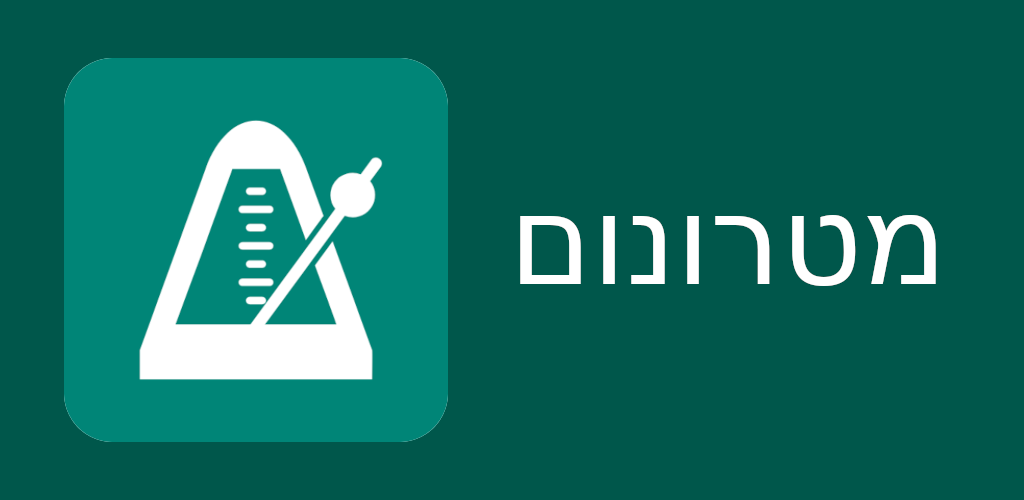
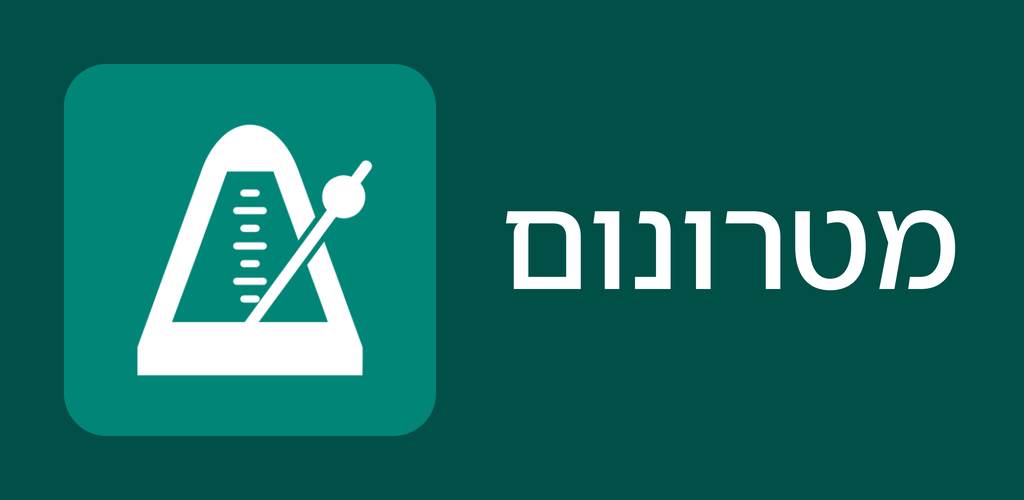
Add script to generate branded featureGraphic.png per locale

diff --git a/fastlane/generate_feature_graphics.py b/fastlane/generate_feature_graphics.py
@@ -1,0 +1,261 @@
+#!/usr/bin/env python3
+
+#  This file is part of Metronome.
+#  Copyright (C) 2026 Philipp Bobek <philipp.bobek@mailbox.org>
+#
+#  This program is free software: you can redistribute it and/or modify
+#  it under the terms of the GNU General Public License as published by
+#  the Free Software Foundation, either version 3 of the License, or
+#  (at your option) any later version.
+#
+#  Metronome is distributed in the hope that it will be useful,
+#  but WITHOUT ANY WARRANTY; without even the implied warranty of
+#  MERCHANTABILITY or FITNESS FOR A PARTICULAR PURPOSE.  See the
+#  GNU General Public License for more details.
+#
+#  You should have received a copy of the GNU General Public License
+#  along with this program.  If not, see <http://www.gnu.org/licenses/>.
+
+"""
+Generates fastlane/metadata/android/<locale>/images/featureGraphic.png for every
+locale that has a translated app name, using the app icon and theme colors from
+app/src/main/res/values/colors.xml so the graphic always matches the app's branding.
+
+Layout is a 16-column grid (64px module) on a 1024x500 canvas:
+  64px margin | 384px icon | 64px gap | 448px text box | 64px margin
+
+Requires python3-pillow built with libraqm (for Arabic shaping/bidi). The Noto Sans
+fonts needed to cover this app's locales are fetched on first use from the google/fonts
+GitHub repo (pinned to GOOGLE_FONTS_COMMIT below) into fastlane/.fonts-cache/ (git-ignored),
+so no manual font installation is needed. Each cached font's SHA-256 is recorded alongside
+it at download time and re-checked on every run, to catch local cache corruption; the
+initial download itself is authenticated by HTTPS + the pinned commit hash.
+"""
+
+import hashlib
+import re
+import sys
+import urllib.request
+from PIL import Image, ImageDraw, ImageFont
+from functools import lru_cache
+from pathlib import Path
+
+REPO_ROOT = Path(__file__).resolve().parent.parent
+RES_DIR = REPO_ROOT / "app" / "src" / "main" / "res"
+COLORS_XML = RES_DIR / "values" / "colors.xml"
+APP_ICON = REPO_ROOT / "fastlane" / "metadata" / "android" / "en-US" / "images" / "icon.png"
+METADATA_DIR = REPO_ROOT / "fastlane" / "metadata" / "android"
+
+CANVAS_WIDTH = 1024
+CANVAS_HEIGHT = 500
+SUPERSAMPLE = 4
+
+MODULE = 64
+ICON_LEFT = MODULE
+ICON_SIZE = CANVAS_HEIGHT - 2 * MODULE  # 384, vertically centered
+ICON_CORNER_RATIO = 0.115
+
+TEXT_LEFT = ICON_LEFT + ICON_SIZE + MODULE  # 512
+TEXT_BOX_WIDTH = CANVAS_WIDTH - TEXT_LEFT - MODULE  # 448
+TEXT_BOX_HEIGHT = 320
+MIN_FONT_SIZE = 10
+MAX_FONT_SIZE = 300
+
+GOOGLE_FONTS_COMMIT = "2796410152d4f9524b68ed46e69c1b60f8e0f7c3"
+GOOGLE_FONTS_RAW_BASE = f"https://raw.githubusercontent.com/google/fonts/{GOOGLE_FONTS_COMMIT}/"
+FONTS_CACHE_DIR = REPO_ROOT / "fastlane" / ".fonts-cache"
+
+# Script key -> path of a standalone (non-collection) variable font file in the
+# google/fonts repo, covering the scripts this app's translated names use.
+FONTS = {
+    "latin": "ofl/notosans/NotoSans[wdth,wght].ttf",
+    "arabic": "ofl/notosansarabic/NotoSansArabic[wdth,wght].ttf",
+    "devanagari": "ofl/notosansdevanagari/NotoSansDevanagari[wdth,wght].ttf",
+    "hebrew": "ofl/notosanshebrew/NotoSansHebrew[wdth,wght].ttf",
+    "tamil": "ofl/notosanstamil/NotoSansTamil[wdth,wght].ttf",
+    "cjk-jp": "ofl/notosansjp/NotoSansJP[wght].ttf",
+    "cjk-kr": "ofl/notosanskr/NotoSansKR[wght].ttf",
+    "cjk-sc": "ofl/notosanssc/NotoSansSC[wght].ttf",
+    "cjk-tc": "ofl/notosanstc/NotoSansTC[wght].ttf",
+}
+
+# Fastlane locale directory -> FONTS key used to render its app name.
+LOCALE_TO_FONT_KEY = {
+    "ar": "arabic",
+    "hi-IN": "devanagari",
+    "iw-IL": "hebrew",
+    "ta-IN": "tamil",
+    "ja-JP": "cjk-jp",
+    "ko-KR": "cjk-kr",
+    "zh-CN": "cjk-sc",
+    "zh-HK": "cjk-tc",
+    "zh-TW": "cjk-tc",
+}
+DEFAULT_FONT_KEY = "latin"
+
+
+def read_color(name: str) -> tuple[int, int, int]:
+    xml = COLORS_XML.read_text(encoding="utf-8")
+    match = re.search(rf'<color name="{re.escape(name)}">#([0-9A-Fa-f]{{6}})</color>', xml)
+    if not match:
+        sys.exit(f"Color '{name}' not found in {COLORS_XML}")
+    hex_value = match.group(1)
+    return tuple(int(hex_value[i: i + 2], 16) for i in (0, 2, 4))
+
+
+def read_app_name(locale: str) -> str:
+    title_txt = METADATA_DIR / locale / "title.txt"
+    if not title_txt.exists():
+        sys.exit(f"{title_txt} does not exist")
+    return title_txt.read_text(encoding="utf-8").strip()
+
+
+@lru_cache(maxsize=None)
+def resolve_font_file(key: str) -> Path:
+    repo_path = FONTS[key]
+    filename = repo_path.rsplit("/", 1)[-1]
+    cached = FONTS_CACHE_DIR / filename
+    checksum_file = cached.with_suffix(cached.suffix + ".sha256")
+
+    if (
+            cached.exists()
+            and checksum_file.exists()
+            and checksum_file.read_text().strip() == hashlib.sha256(cached.read_bytes()).hexdigest()
+    ):
+        return cached
+
+    url = GOOGLE_FONTS_RAW_BASE + repo_path
+    print(f"Downloading font: {url}")
+    try:
+        with urllib.request.urlopen(url, timeout=30) as response:
+            data = response.read()
+    except OSError as error:
+        sys.exit(
+            f"Failed to download font from {url}: {error}\n"
+            f"Check network connectivity, or manually place the file at {cached}."
+        )
+
+    FONTS_CACHE_DIR.mkdir(parents=True, exist_ok=True)
+    tmp_file = cached.with_suffix(cached.suffix + ".part")
+    tmp_file.write_bytes(data)
+    tmp_file.replace(cached)
+    checksum_file.write_text(hashlib.sha256(data).hexdigest() + "\n")
+    return cached
+
+
+def load_font(locale: str, size: int) -> ImageFont.FreeTypeFont:
+    key = LOCALE_TO_FONT_KEY.get(locale, DEFAULT_FONT_KEY)
+    font_file = resolve_font_file(key)
+    font = ImageFont.truetype(str(font_file), size, layout_engine=ImageFont.Layout.RAQM)
+    try:
+        if b"Medium" in font.get_variation_names():
+            font.set_variation_by_name("Medium")
+    except OSError:
+        pass  # static (non-variable) font, e.g. the CJK collections
+    return font
+
+
+def _unmix(pixel: tuple[int, int, int], bg: tuple[int, int, int]) -> tuple[float, tuple[int, int, int]]:
+    """Chroma-key one pixel against a flat background color.
+
+    Assumes the icon is flat foreground color(s) anti-aliased against a solid
+    background: pixel = alpha * fg + (1 - alpha) * bg, for some unknown opaque
+    fg and alpha. Recovers both by casting a ray from bg through pixel and
+    finding where it exits the RGB cube - that exit point is fg (saturated on
+    at least one channel), and how far pixel already sits along that ray is
+    alpha. This works for any foreground color, not just black/white, as long
+    as it differs from the background.
+    """
+    diffs = tuple(p - bg_c for p, bg_c in zip(pixel, bg))
+    if diffs == (0, 0, 0):
+        return 0.0, bg
+
+    t_max = float("inf")
+    for d, bg_c in zip(diffs, bg):
+        if d > 0:
+            t_max = min(t_max, (255 - bg_c) / d)
+        elif d < 0:
+            t_max = min(t_max, -bg_c / d)
+    alpha = min(1.0, 1.0 / t_max)
+    fg = tuple(round(min(255.0, max(0.0, bg_c + d / alpha))) for d, bg_c in zip(diffs, bg))
+    return alpha, fg
+
+
+def build_logo(size: int, square_color: tuple[int, int, int]) -> Image.Image:
+    hi_res = size * SUPERSAMPLE
+    icon = Image.open(APP_ICON).convert("RGB")
+    icon_px = icon.load()
+    bg = icon_px[0, 0]
+
+    glyph = Image.new("RGBA", icon.size, (255, 255, 255, 0))
+    glyph_px = glyph.load()
+    for y in range(icon.size[1]):
+        for x in range(icon.size[0]):
+            alpha, fg = _unmix(icon_px[x, y], bg)
+            glyph_px[x, y] = (*fg, round(alpha * 255))
+    glyph = glyph.resize((hi_res, hi_res), Image.LANCZOS)
+
+    logo = Image.new("RGBA", (hi_res, hi_res), (0, 0, 0, 0))
+    draw = ImageDraw.Draw(logo)
+    draw.rounded_rectangle(
+        (0, 0, hi_res - 1, hi_res - 1),
+        radius=round(hi_res * ICON_CORNER_RATIO),
+        fill=(*square_color, 255),
+    )
+    logo.alpha_composite(glyph)
+    return logo.resize((size, size), Image.LANCZOS)
+
+
+def fit_font_size(locale: str, text: str) -> ImageFont.FreeTypeFont:
+    target_w = TEXT_BOX_WIDTH * SUPERSAMPLE
+    target_h = TEXT_BOX_HEIGHT * SUPERSAMPLE
+    lo, hi = MIN_FONT_SIZE, MAX_FONT_SIZE * SUPERSAMPLE
+    best = load_font(locale, lo)
+    scratch = ImageDraw.Draw(Image.new("RGB", (1, 1)))
+    while lo <= hi:
+        mid = (lo + hi) // 2
+        font = load_font(locale, mid)
+        left, top, right, bottom = scratch.textbbox((0, 0), text, font=font)
+        if (right - left) <= target_w and (bottom - top) <= target_h:
+            best = font
+            lo = mid + 1
+        else:
+            hi = mid - 1
+    return best
+
+
+def render_feature_graphic(locale: str, background: tuple, icon_bg: tuple, text_color: tuple) -> Image.Image:
+    text = read_app_name(locale)
+    scale = SUPERSAMPLE
+    canvas = Image.new("RGB", (CANVAS_WIDTH * scale, CANVAS_HEIGHT * scale), background)
+    draw = ImageDraw.Draw(canvas)
+
+    logo = build_logo(ICON_SIZE * scale, icon_bg)
+    canvas.paste(logo, (ICON_LEFT * scale, MODULE * scale), logo)
+
+    font = fit_font_size(locale, text)
+    left, top, right, bottom = draw.textbbox((0, 0), text, font=font)
+    x = TEXT_LEFT * scale - left
+    y = (CANVAS_HEIGHT * scale) // 2 - (bottom - top) // 2 - top
+    draw.text((x, y), text, font=font, fill=text_color)
+
+    return canvas.resize((CANVAS_WIDTH, CANVAS_HEIGHT), Image.LANCZOS)
+
+
+def main() -> None:
+    background = read_color("md_theme_dark_primaryContainer")
+    icon_bg = read_color("seed")
+    text_color = read_color("md_theme_light_onPrimary")
+
+    locales = sorted(p.name for p in METADATA_DIR.iterdir() if p.is_dir())
+    for locale in locales:
+        image = render_feature_graphic(locale, background, icon_bg, text_color)
+        out_dir = METADATA_DIR / locale / "images"
+        out_dir.mkdir(parents=True, exist_ok=True)
+        out_path = out_dir / "featureGraphic.png"
+        image.save(out_path, "PNG")
+        print(f"Wrote {out_path}")
+
+
+if __name__ == "__main__":
+    main()

diff --git a/CLAUDE.md b/CLAUDE.md
@@ -34,6 +34,13 @@ bundle exec fastlane android setup_screenshot_emulators # just (re-)create the S
 bundle exec fastlane android grab_screen_phone          # requires a connected/already-running device
 bundle exec fastlane android grab_screen_seven_inch
 bundle exec fastlane android grab_screen_ten_inch
+
+# Regenerate fastlane/metadata/android/*/images/featureGraphic.png from the app icon,
+# app/src/main/res/values/colors.xml theme colors, and each locale's translated app name.
+# Requires python3-pillow (built with libraqm). Needed fonts are downloaded automatically
+# on first run into fastlane/.fonts-cache/ (git-ignored), so a network connection is
+# needed the first time only.
+bundle exec fastlane android generate_feature_graphics
 ```
 
 Fastlane release builds require env vars: `KEYSTORE_FILE`, `KEYSTORE_PASSWORD`, `KEY_ALIAS`, `KEY_PASSWORD`.

diff --git a/fastlane/README.md b/fastlane/README.md
@@ -79,6 +79,14 @@ Grab all screenshots, booting each screenshot emulator in turn
 
 Create the Screenshots_* AVDs on this machine if they don't already exist
 
+### android generate_feature_graphics
+
+```sh
+[bundle exec] fastlane android generate_feature_graphics
+```
+
+Regenerate featureGraphic.png for every fastlane locale from the app icon, theme colors and translated app name
+
 ----
 
 This README.md is auto-generated and will be re-generated every time [_fastlane_](https://fastlane.tools) is run.
